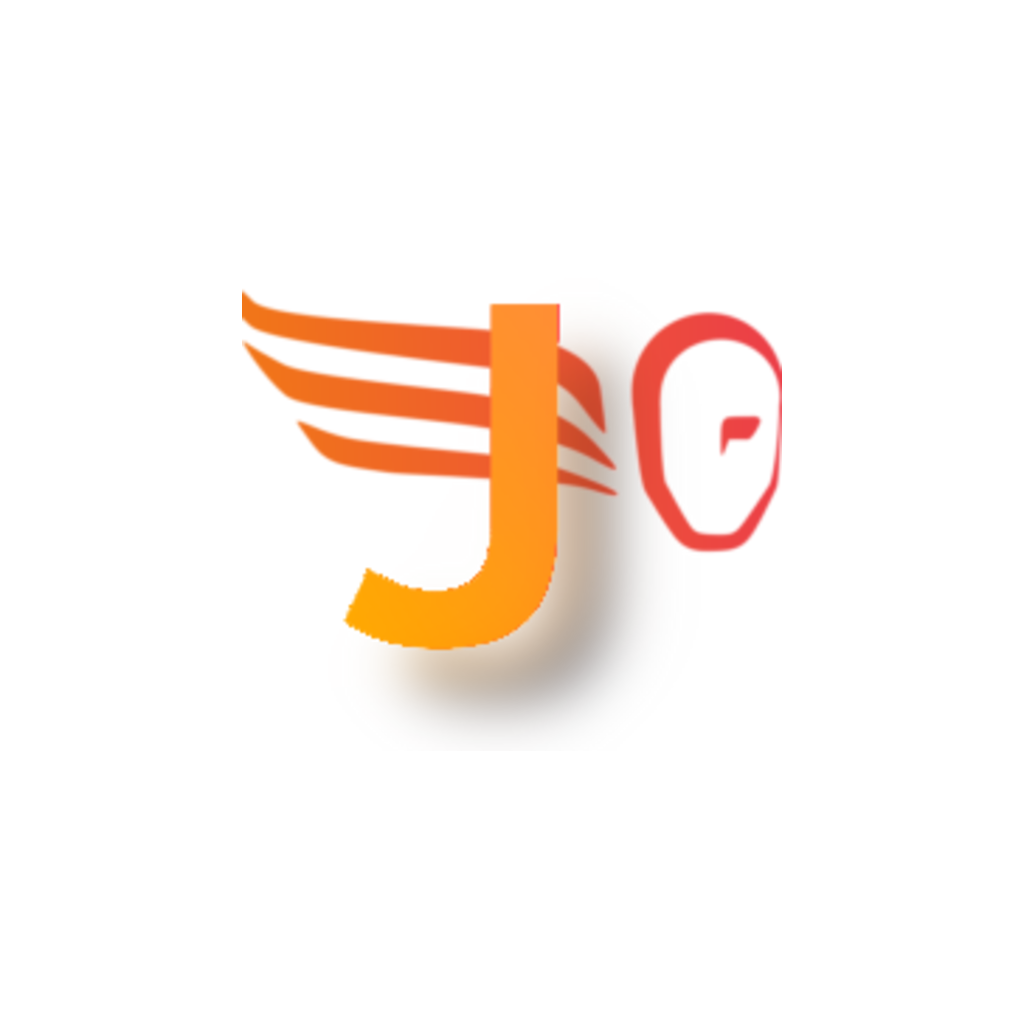
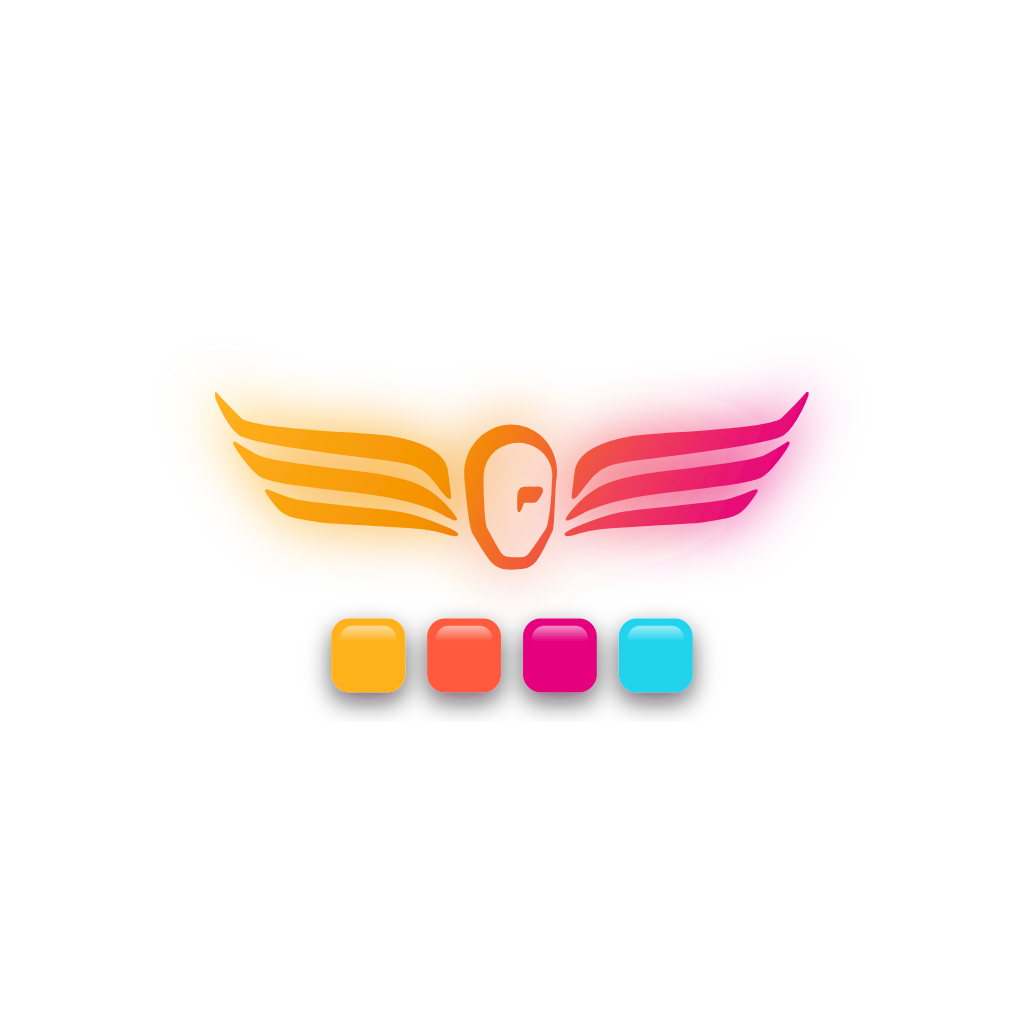
Nuevo ícono de la app: vectorial desde el grafotipo oficial
El ícono anterior salía de un PNG de 192 px (borroso y con la cabeza
cortada). Ahora todo se genera con scripts/build-icons.py (npm run icons)
desde el trazo vectorial del logo de SesoLibre: alas + cabeza en el
degradado de marca sobre fondo ciruela, con cuatro fichas de color como
guiño a los juegos. Respeta la zona segura del ícono adaptativo de
Android, incluye maskable/apple-touch para la PWA, favicon SVG real e
ícono 512 para la ficha de Google Play.

Changed region(s): [[0.1875, 0.2812, 0.8125, 0.7188]]

diff --git a/index.html b/index.html
@@ -3,6 +3,7 @@
   <head>
     <meta charset="UTF-8" />
     <link rel="icon" type="image/svg+xml" href="/favicon.svg" />
+    <link rel="apple-touch-icon" href="/icons/apple-touch-icon.png" />
     <meta
       name="viewport"
       content="width=device-width, initial-scale=1.0, viewport-fit=cover, user-scalable=no"

diff --git a/vite.config.ts b/vite.config.ts
@@ -20,7 +20,7 @@ export default defineConfig({
     react(),
     VitePWA({
       registerType: 'autoUpdate',
-      includeAssets: ['favicon.svg'],
+      includeAssets: ['favicon.svg', 'icons/apple-touch-icon.png'],
       manifest: {
         name: 'SesoLibre Games',
         short_name: 'SesoLibre',

diff --git a/scripts/build-icons.py b/scripts/build-icons.py
@@ -1,0 +1,241 @@
+#!/usr/bin/env python3
+"""Genera TODOS los íconos de la app desde vectores (fuente única de verdad).
+
+Fuente: assets/src/grafotipo.path (trazo vectorial del logo oficial de
+SesoLibre: alas + cabeza, sin el texto). El diseño se compone aquí en SVG y se
+rasteriza con Chrome headless (mismo motor que la PWA), así que cualquier
+tamaño sale nítido.
+
+Salidas:
+  assets/icon.svg                 ícono completo (referencia / tiendas)
+  assets/icon-only.png            1024, para @capacitor/assets (legacy + iOS)
+  assets/icon-foreground.png      1024 transparente, capa adaptativa Android
+  assets/icon-background.png      1024, capa de fondo adaptativa Android
+  public/favicon.svg              favicon vectorial real
+  public/icons/icon-192.png       PWA
+  public/icons/icon-512.png       PWA
+  public/icons/icon-512-maskable.png  PWA maskable (zona segura 80%)
+  public/icons/apple-touch-icon.png   180, iOS Safari
+  assets/play/icon-512.png        ícono de la ficha de Google Play
+
+Uso:  npm run icons   (= python3 scripts/build-icons.py; requiere google-chrome / chromium)
+Luego: npm run assets:android  para regenerar los mipmaps locales.
+"""
+from __future__ import annotations
+
+import os
+import shutil
+import subprocess
+import sys
+import tempfile
+from pathlib import Path
+
+ROOT = Path(__file__).resolve().parent.parent
+PATH_D = (ROOT / 'assets/src/grafotipo.path').read_text().strip()
+
+# Transformación original del archivo del logo (Inkscape, coords PDF con Y
+# invertida). Tras ella, el grafotipo ocupa aprox. x 129..413, y 13..98.
+LOGO_TRANSFORM = (
+    'matrix(1.3333333,0,0,-1.3333333,0,1056) '
+    'matrix(0.79271731,0,0,0.79271731,-38.456705,414.6568)'
+)
+MARK_BOX = (129.0, 13.0, 284.0, 86.0)  # x, y, w, h (unidades del logo)
+
+# Paleta de marca.
+ORANGE = '#f49200'
+MAGENTA = '#e5007e'
+BG_TOP = '#3b1450'
+BG_MID = '#24093a'
+BG_EDGE = '#12041f'
+
+
+def chrome_bin() -> str:
+    for name in ('google-chrome-stable', 'google-chrome', 'chromium', 'chromium-browser'):
+        found = shutil.which(name)
+        if found:
+            return found
+    sys.exit('No se encontró Chrome/Chromium para rasterizar.')
+
+
+def mark(cx: float, cy: float, width: float, *, fill: str, extra: str = '') -> str:
+    """El grafotipo centrado en (cx, cy) con el ancho pedido.
+
+    El trazo original incluye también el texto "SesoLibre"; la máscara
+    `#mark` (definida en unidades del logo) recorta solo alas + cabeza, y el
+    relleno se pinta en un rect del tamaño exacto del grafotipo para que el
+    degradado abarque justo la marca.
+    """
+    x, y, w, h = MARK_BOX
+    s = width / w
+    tx = cx - (x + w / 2) * s
+    ty = cy - (y + h / 2) * s
+    return (
+        f'<g transform="translate({tx:.3f},{ty:.3f}) scale({s:.5f})" {extra}>'
+        f'<rect x="{x}" y="{y}" width="{w}" height="{h}" fill="{fill}" mask="url(#mark)"/></g>'
+    )
+
+
+def defs() -> str:
+    # El degradado de la marca va en unidades del lienzo (userSpaceOnUse sobre
+    # el <g> escalado sería frágil), de izquierda a derecha sobre el grafotipo.
+    x, y, w, h = MARK_BOX
+    return f'''<defs>
+  <clipPath id="markbox"><rect x="{x}" y="{y}" width="{w}" height="{h}"/></clipPath>
+  <mask id="mark" maskUnits="userSpaceOnUse" x="{x}" y="{y}" width="{w}" height="{h}">
+    <g clip-path="url(#markbox)"><path transform="{LOGO_TRANSFORM}" d="{PATH_D}" fill="#fff" stroke="#fff" stroke-width="1.1" stroke-linejoin="round"/></g>
+  </mask>
+  <linearGradient id="brand" x1="0" y1="0" x2="1" y2="0.15">
+    <stop offset="0" stop-color="#ffb21e"/>
+    <stop offset="0.45" stop-color="{ORANGE}"/>
+    <stop offset="0.75" stop-color="#ef3f5a"/>
+    <stop offset="1" stop-color="{MAGENTA}"/>
+  </linearGradient>
+  <radialGradient id="bg" cx="0.5" cy="0.38" r="0.78">
+    <stop offset="0" stop-color="{BG_TOP}"/>
+    <stop offset="0.55" stop-color="{BG_MID}"/>
+    <stop offset="1" stop-color="{BG_EDGE}"/>
+  </radialGradient>
+  <radialGradient id="halo" cx="0.5" cy="0.5" r="0.5">
+    <stop offset="0" stop-color="#ff5a3c" stop-opacity="0.55"/>
+    <stop offset="0.45" stop-color="{MAGENTA}" stop-opacity="0.18"/>
+    <stop offset="1" stop-color="{MAGENTA}" stop-opacity="0"/>
+  </radialGradient>
+  <linearGradient id="shine" x1="0" y1="0" x2="0" y2="1">
+    <stop offset="0" stop-color="#fff" stop-opacity="0.55"/>
+    <stop offset="0.5" stop-color="#fff" stop-opacity="0"/>
+  </linearGradient>
+  <filter id="glow" x="-30%" y="-60%" width="160%" height="220%">
+    <feGaussianBlur stdDeviation="14" result="b"/>
+    <feMerge><feMergeNode in="b"/><feMergeNode in="SourceGraphic"/></feMerge>
+  </filter>
+  <filter id="drop" x="-20%" y="-20%" width="140%" height="160%">
+    <feDropShadow dx="0" dy="10" stdDeviation="12" flood-color="#07010d" flood-opacity="0.6"/>
+  </filter>
+</defs>'''
+
+
+# Fichas de juego bajo el grafotipo: los acentos de la colección (ámbar,
+# coral, magenta, cian) como "gemas" con brillo, guiño a Figures/Bloques.
+TILE_COLORS = ['#ffb21e', '#ff5a3c', MAGENTA, '#22d3ee']
+
+
+def tiles(cx: float, cy: float, size: float, gap: float) -> str:
+    n = len(TILE_COLORS)
+    total = n * size + (n - 1) * gap
+    x0 = cx - total / 2
+    r = size * 0.24
+    out = []
+    for i, color in enumerate(TILE_COLORS):
+        x = x0 + i * (size + gap)
+        y = cy - size / 2
+        out.append(
+            f'<rect x="{x:.2f}" y="{y:.2f}" width="{size}" height="{size}" rx="{r:.2f}" fill="{color}"/>'
+            f'<rect x="{x + size*0.12:.2f}" y="{y + size*0.1:.2f}" width="{size*0.76:.2f}" '
+            f'height="{size*0.42:.2f}" rx="{r*0.7:.2f}" fill="url(#shine)"/>'
+        )
+    return f'<g filter="url(#drop)">{"".join(out)}</g>'
+
+
+def background(size: int = 1024) -> str:
+    c = size / 2
+    return (
+        f'<rect width="{size}" height="{size}" fill="url(#bg)"/>'
+        # Retícula de puntos muy tenue: textura "tablero de juego".
+        f'<g fill="#ffffff" fill-opacity="0.05">'
+        + ''.join(
+            f'<circle cx="{x}" cy="{y}" r="3"/>'
+            for x in range(32, size, 64)
+            for y in range(32, size, 64)
+        )
+        + '</g>'
+        f'<ellipse cx="{c}" cy="{c * 0.9}" rx="{size * 0.42}" ry="{size * 0.3}" fill="url(#halo)"/>'
+    )
+
+
+def foreground(size: int = 1024, scale: float = 1.0) -> str:
+    """Contenido central. `scale` 1.0 = cabe en la zona segura adaptativa (61%)."""
+    c = size / 2
+    # Las puntas de las alas son lo más alejado del centro: con 0.58 y la marca
+    # casi centrada quedan dentro del círculo seguro de 66/108 dp.
+    w = size * 0.58 * scale
+    mark_cy = c - size * 0.03 * scale
+    tile = size * 0.072 * scale
+    return (
+        mark(c, mark_cy, w, fill='url(#brand)', extra='filter="url(#glow)"')
+        + tiles(c, c + size * 0.14 * scale, tile, tile * 0.3)
+    )
+
+
+def svg(body: str, size: int = 1024, *, rounded: float | None = None) -> str:
+    clip = ''
+    if rounded is not None:
+        clip = f'<clipPath id="r"><rect width="{size}" height="{size}" rx="{rounded}"/></clipPath>'
+        body = f'<g clip-path="url(#r)">{body}</g>'
+    return (
+        f'<svg xmlns="http://www.w3.org/2000/svg" viewBox="0 0 {size} {size}" '
+        f'width="{size}" height="{size}">{defs()}{clip}{body}</svg>\n'
+    )
+
+
+def render(svg_text: str, out: Path, px: int, chrome: str, tmp: Path) -> None:
+    src = tmp / 'in.svg'
+    src.write_text(svg_text)
+    html = tmp / 'in.html'
+    html.write_text(
+        '<html><body style="margin:0;background:transparent">'
+        f'<img src="in.svg" style="display:block;width:{px}px;height:{px}px"></body></html>'
+    )
+    shot = tmp / 'shot.png'
+    res = subprocess.run(
+        [chrome, '--headless=new', '--disable-gpu', '--no-sandbox', '--hide-scrollbars',
+         '--force-device-scale-factor=1', '--default-background-color=00000000',
+         f'--window-size={px},{px}', f'--screenshot={shot}', html.as_uri()],
+        capture_output=True, timeout=120,
+        # Con un TMPDIR largo Chrome aborta ("Socket path too long").
+        env={k: v for k, v in os.environ.items() if k != 'TMPDIR'},
+    )
+    # Chrome a veces aborta al cerrar (crashpad) DESPUÉS de escribir la captura:
+    # lo que importa es que el PNG exista.
+    if not shot.exists():
+        sys.exit(f'Chrome no generó la captura para {out.name}:\n{res.stderr.decode()[-800:]}')
+    out.parent.mkdir(parents=True, exist_ok=True)
+    shutil.move(shot, out)
+    print(f'  {out.relative_to(ROOT)} ({px}px)')
+
+
+def main() -> None:
+    chrome = chrome_bin()
+    # Maskable / adaptativo: el contenido respeta la zona segura.
+    full = svg(background() + foreground())
+    # Ícono completo a sangre (el sistema lo recorta: launcher legacy, iOS).
+    full_big = svg(background() + foreground(scale=1.18))
+    # PWA "any" (escritorio, pestañas): ya trae sus esquinas redondeadas.
+    pwa = svg(background() + foreground(scale=1.3), rounded=200)
+    fg_only = svg(foreground())
+    bg_only = svg(background())
+    # Favicon: sin textura ni fichas (ilegibles a 16-32px), esquinas redondeadas.
+    fav = svg(
+        f'<rect width="1024" height="1024" fill="url(#bg)"/>'
+        + mark(512, 512, 900, fill='url(#brand)'),
+        rounded=220,
+    )
+
+    (ROOT / 'assets/icon.svg').write_text(full_big)
+    (ROOT / 'public/favicon.svg').write_text(fav)
+    print('  assets/icon.svg, public/favicon.svg')
+
+    with tempfile.TemporaryDirectory(dir=os.environ.get('TMPDIR')) as t:
+        tmp = Path(t)
+        render(full_big, ROOT / 'assets/icon-only.png', 1024, chrome, tmp)
+        render(fg_only, ROOT / 'assets/icon-foreground.png', 1024, chrome, tmp)
+        render(bg_only, ROOT / 'assets/icon-background.png', 1024, chrome, tmp)
+        render(pwa, ROOT / 'public/icons/icon-192.png', 192, chrome, tmp)
+        render(pwa, ROOT / 'public/icons/icon-512.png', 512, chrome, tmp)
+        render(full, ROOT / 'public/icons/icon-512-maskable.png', 512, chrome, tmp)
+        render(full_big, ROOT / 'public/icons/apple-touch-icon.png', 180, chrome, tmp)
+        # Ficha de Google Play: 512x512 a sangre (Play aplica sus esquinas).
+        render(full_big, ROOT / 'assets/play/icon-512.png', 512, chrome, tmp)
+
+
+if __name__ == '__main__':
+    main()
